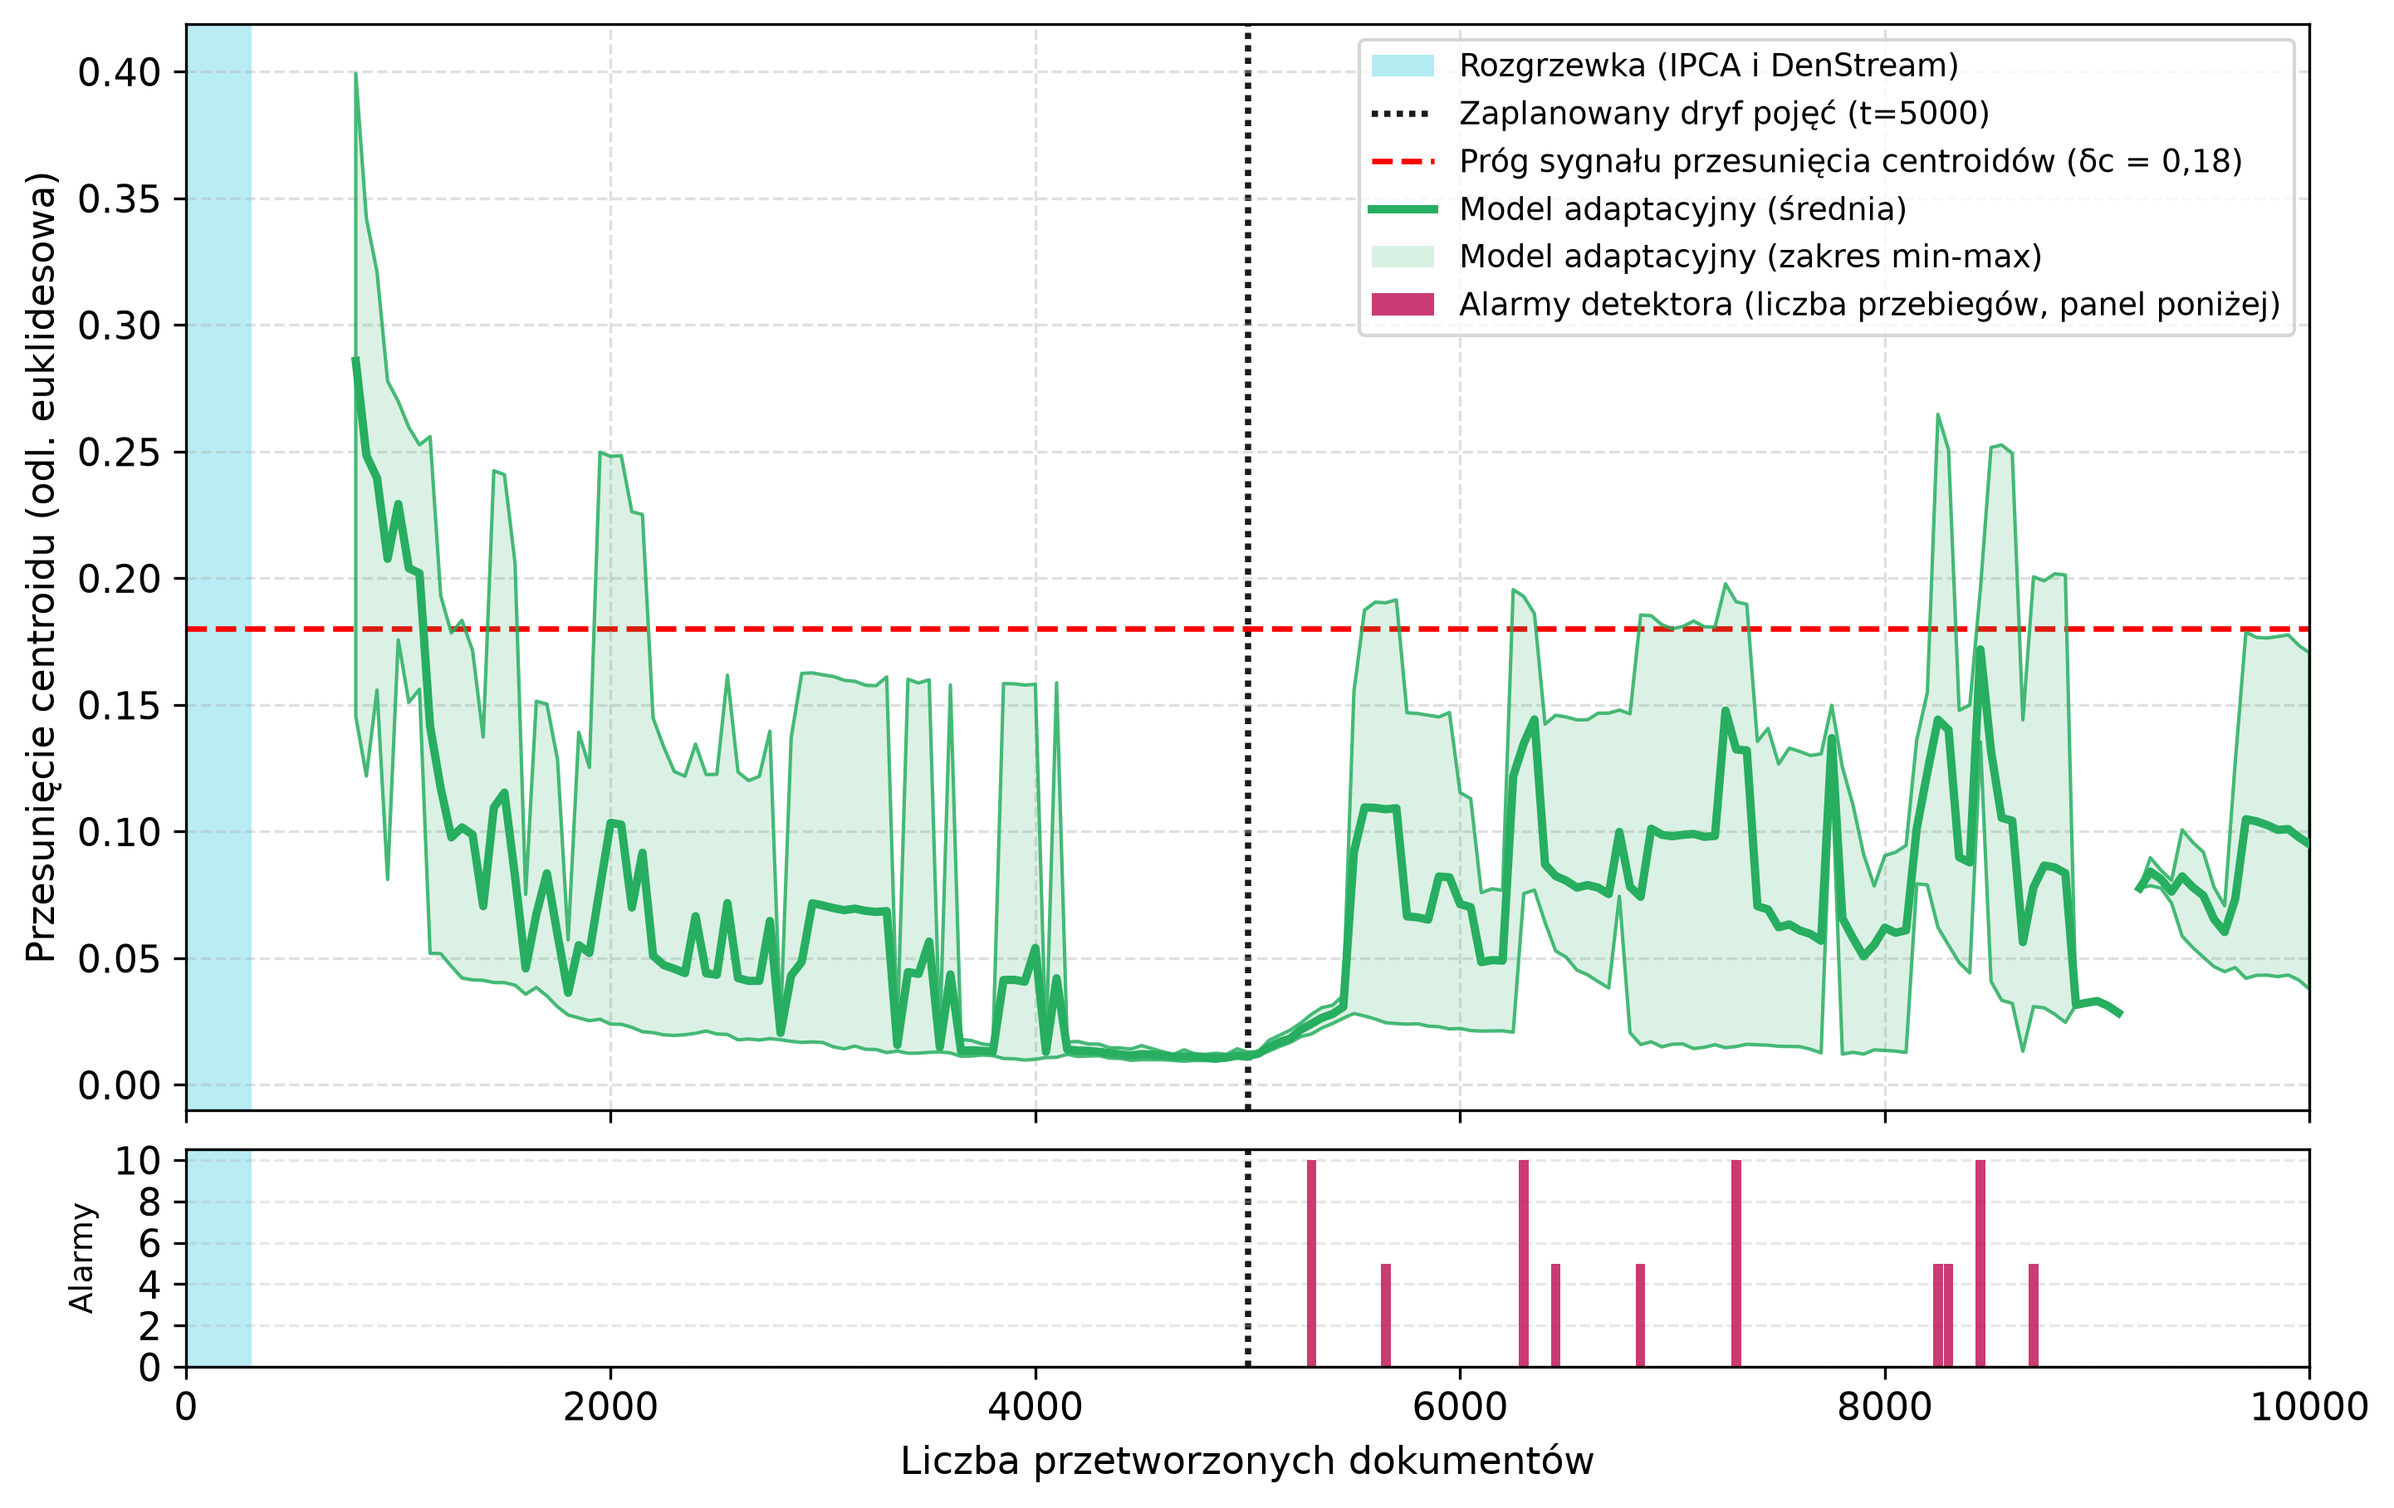
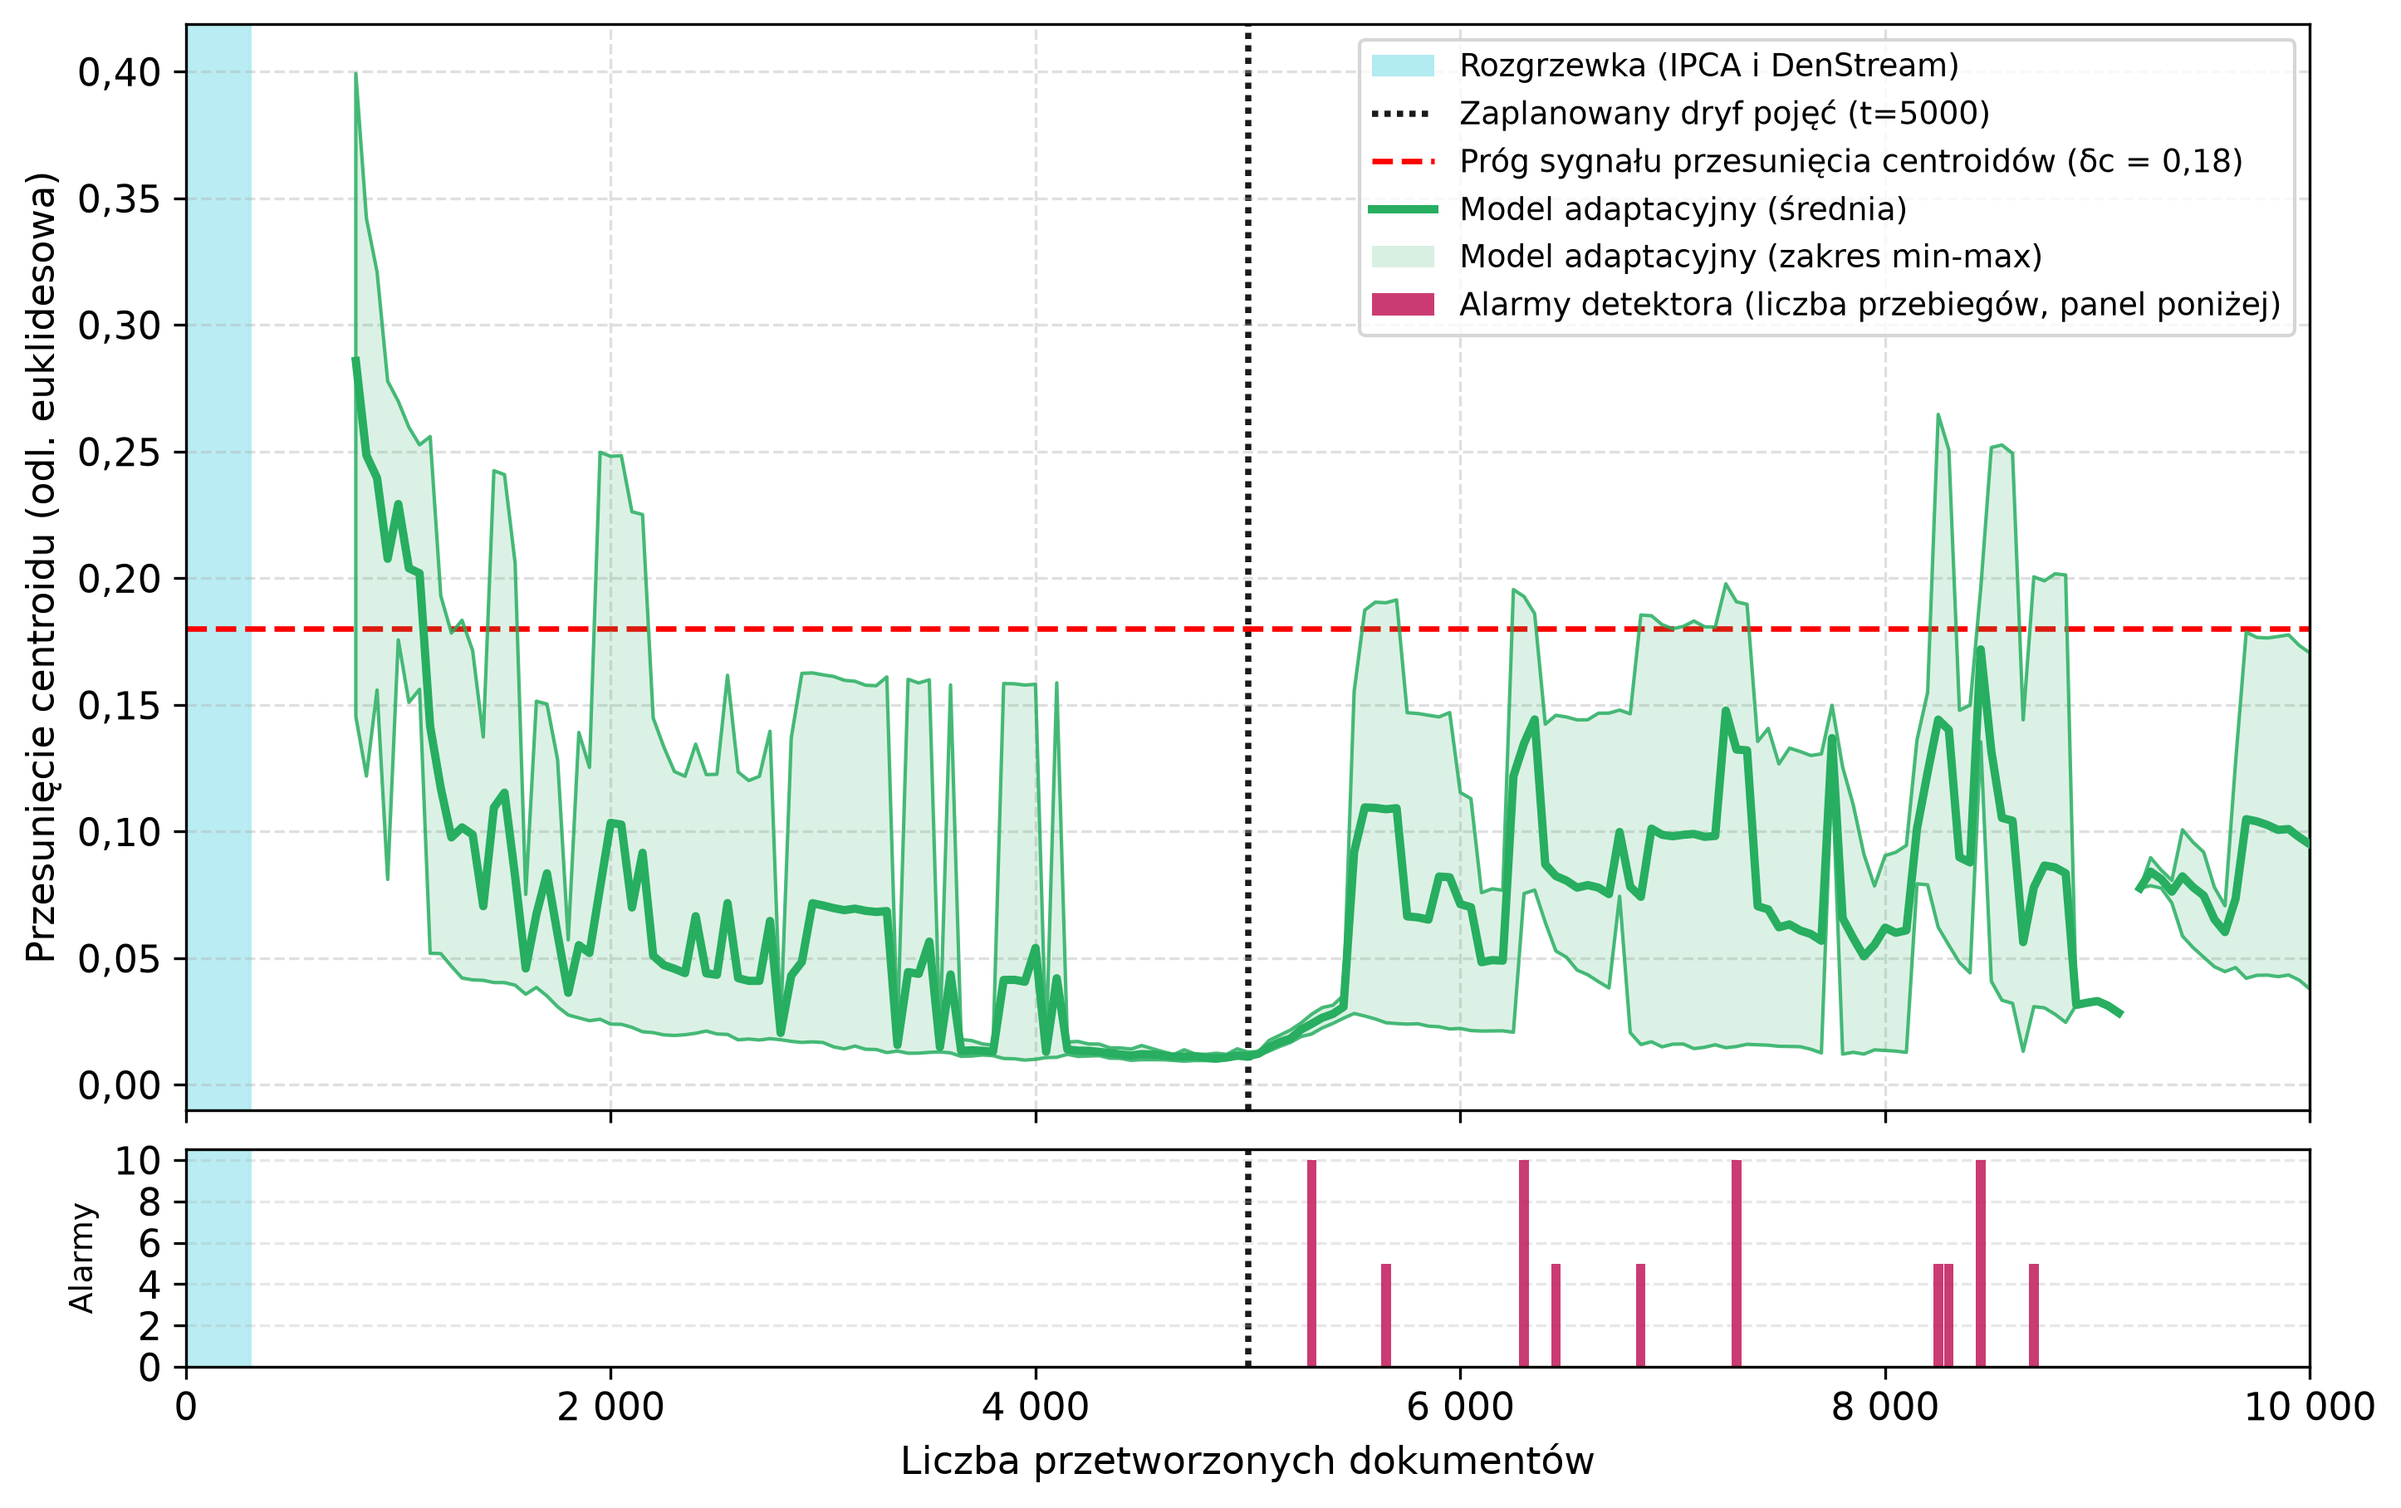
Use decimal commas and Polish thousands separators in all thesis figures

diff --git a/experiments/theses/thesis_2/plot_thesis_2_drift.py b/experiments/theses/thesis_2/plot_thesis_2_drift.py
@@ -19,6 +19,7 @@ import pandas as pd
 from matplotlib.colors import to_rgba
 from matplotlib.lines import Line2D
 
+from experiments.plot_style import decimal_comma, use_polish_number_format
 from experiments.theses.thesis_2.exp_thesis_2_drift import (
     BATCH_SIZE,
     DRIFT_POINT,
@@ -201,9 +202,9 @@ def plot_convergence_heatmaps(dfs: Dict[Tuple[float, float], pd.DataFrame], tail
     for ax, grid, subtitle, fmt in panels:
         im = ax.imshow(grid, cmap="viridis", aspect="auto")
         ax.set_xticks(range(len(DECAY_VALUES)))
-        ax.set_xticklabels([str(d) for d in DECAY_VALUES])
+        ax.set_xticklabels([decimal_comma(d) for d in DECAY_VALUES])
         ax.set_yticks(range(len(EPSILON_VALUES)))
-        ax.set_yticklabels([str(e) for e in EPSILON_VALUES])
+        ax.set_yticklabels([decimal_comma(e) for e in EPSILON_VALUES])
         ax.set_xlabel(r"Startowe $\lambda_0$")
         ax.set_ylabel(r"Startowe $\epsilon_0$")
         ax.set_title(subtitle, fontsize=11)
@@ -214,7 +215,7 @@ def plot_convergence_heatmaps(dfs: Dict[Tuple[float, float], pd.DataFrame], tail
                 val = grid[i, j]
                 if not np.isnan(val):
                     text_color = "white" if val > norm_mid else "black"
-                    ax.text(j, i, fmt.format(val), ha="center", va="center", color=text_color, fontsize=9)
+                    ax.text(j, i, decimal_comma(fmt.format(val)), ha="center", va="center", color=text_color, fontsize=9)
         fig.colorbar(im, ax=ax, fraction=0.046, pad=0.04)
 
     plt.tight_layout()
@@ -246,9 +247,9 @@ def plot_trajectory_example(dfs: Dict[Tuple[float, float], pd.DataFrame], combo:
 
     handles = _base_legend_handles() + [
         Line2D([0], [0], color="#2980b9", lw=2.2, label=r"Adaptacyjny $\epsilon(t)$"),
-        Line2D([0], [0], color="#2980b9", ls=":", lw=1.4, label=rf"Start $\epsilon_0={eps}$"),
+        Line2D([0], [0], color="#2980b9", ls=":", lw=1.4, label=rf"Start $\epsilon_0$ = {decimal_comma(eps)}"),
         Line2D([0], [0], color="#8e44ad", lw=2.2, label=r"Adaptacyjny $\lambda(t)$"),
-        Line2D([0], [0], color="#8e44ad", ls=":", lw=1.4, label=rf"Start $\lambda_0={decay}$"),
+        Line2D([0], [0], color="#8e44ad", ls=":", lw=1.4, label=rf"Start $\lambda_0$ = {decimal_comma(decay)}"),
     ]
     plt.tight_layout()
     fig.legend(handles=handles, loc="upper center", ncol=3, frameon=True, bbox_to_anchor=(0.5, 0.0))
@@ -292,6 +293,7 @@ def plot_summary_gain(dfs: Dict[Tuple[float, float], pd.DataFrame], tail_docs: i
 
 
 def main():
+    use_polish_number_format()
     dfs = load_all()
     n_expected = len(EPSILON_VALUES) * len(DECAY_VALUES)
     print(f"Loaded {len(dfs)}/{n_expected} combinations.")

diff --git a/experiments/theses/thesis_3/exp_thesis_3_pareto.py b/experiments/theses/thesis_3/exp_thesis_3_pareto.py
@@ -23,6 +23,7 @@ from sklearn.decomposition import IncrementalPCA
 from sklearn.metrics import normalized_mutual_info_score
 from sklearn.preprocessing import normalize
 
+from experiments.plot_style import use_polish_number_format
 from experiments.theses.thesis_1.exp_thesis_1_ipca import STREAM_SEEDS, shuffle_stream
 from experiments.theses.thesis_2.exp_thesis_2_drift import (
     HOTSWAP_BUFFER_SIZE,
@@ -153,6 +154,7 @@ def _dimension_axis(ax, ylabel: str):
 
 
 def plot_fronts(fronts: pd.DataFrame, out_path: str):
+    use_polish_number_format()
     phase, seed = EXAMPLE_RUN
     fig, ax = plt.subplots(figsize=(9, 6))
     for d in PCA_DIMS:
@@ -171,6 +173,7 @@ def plot_fronts(fronts: pd.DataFrame, out_path: str):
 
 
 def plot_compromise_quality(summary: pd.DataFrame, out_path: str):
+    use_polish_number_format()
     fig, ax = plt.subplots(figsize=(8, 5))
     for metric, label in [("purity", "Czystość"), ("nmi", "NMI")]:
         ax.errorbar(summary["pca_dim"], summary[f"{metric}_mean"], yerr=summary[f"{metric}_std"], marker="o", capsize=4, lw=2, label=label)
@@ -182,6 +185,7 @@ def plot_compromise_quality(summary: pd.DataFrame, out_path: str):
 
 
 def plot_compromise_structure(summary: pd.DataFrame, out_path: str):
+    use_polish_number_format()
     fig, ax = plt.subplots(figsize=(8, 5))
     ax.errorbar(summary["pca_dim"], summary["micro_macro_ratio_mean"], yerr=summary["micro_macro_ratio_std"], marker="o", capsize=4, lw=2)
     _dimension_axis(ax, "$N_{micro} / N_{macro}$")
@@ -190,6 +194,7 @@ def plot_compromise_structure(summary: pd.DataFrame, out_path: str):
 
 
 def plot_compromise_params(summary: pd.DataFrame, out_path: str):
+    use_polish_number_format()
     bounds = config.evolution.param_bounds
     fig, axes = plt.subplots(2, 1, figsize=(8, 7), sharex=True)
     for ax, param, label in [(axes[0], "epsilon", "$\\varepsilon^*$"), (axes[1], "decaying_factor", "$\\lambda^*$")]:

diff --git a/experiments/param_bounds/lambda/exp_lambda_bounds.py b/experiments/param_bounds/lambda/exp_lambda_bounds.py
@@ -26,6 +26,7 @@ from experiments.param_bounds.common.validation_stream import (
     VALIDATION_SAMPLES_PER_PHASE as SAMPLES_PER_PHASE,
     load_validation_stream,
 )
+from experiments.plot_style import use_polish_number_format
 from experiments.theses.thesis_1.exp_thesis_1_ipca import STREAM_SEEDS, shuffle_stream
 from experiments.theses.thesis_2.exp_thesis_2_drift import BATCH_SIZE, INITIAL_WARMUP_SIZE
 from src.core.config import config
@@ -112,6 +113,7 @@ def run_one(seed: int, decay: float) -> Tuple[dict, pd.DataFrame]:
 
 
 def plot_quality(summary: pd.DataFrame, out_path: str):
+    use_polish_number_format()
     plt.rcParams.update({"font.size": 11, "font.family": "serif"})
     fig, ax = plt.subplots(figsize=(8, 5))
     for col, label in [("purity_before_switch", "Czystość przed zmianą tematów"), ("purity_after_switch", "Czystość po zmianie tematów")]:
@@ -132,6 +134,7 @@ def plot_purity_over_time(timeseries: pd.DataFrame, out_path: str):
     lambda values (mean over stream orders): the drop at the topic switch
     and the lack of recovery, whatever the speed of forgetting. Warm-up and
     drift markers follow the thesis 2 figures."""
+    use_polish_number_format()
     plt.rcParams.update({"font.size": 11, "font.family": "serif"})
     fig, ax = plt.subplots(figsize=(8, 4.5))
     ax.axvspan(0, INITIAL_WARMUP_SIZE, color="#b2ebf2", alpha=0.9, zorder=0, label="Rozgrzewka (IPCA i DenStream)")

diff --git a/experiments/theses/thesis_1/exp_thesis_1_ipca.py b/experiments/theses/thesis_1/exp_thesis_1_ipca.py
@@ -14,11 +14,13 @@ import time
 from typing import List, Optional
 
 import matplotlib.pyplot as plt
+from matplotlib.ticker import MultipleLocator
 import numpy as np
 import pandas as pd
 from sklearn.decomposition import IncrementalPCA
 from sklearn.preprocessing import normalize
 
+from experiments.plot_style import use_polish_number_format
 from experiments.theses.thesis_2.exp_thesis_2_drift import (
     BATCH_SIZE,
     INITIAL_WARMUP_SIZE,
@@ -203,6 +205,7 @@ def plot_purity_band(timeseries: pd.DataFrame, summary: pd.DataFrame, out_path: 
     epsilon, the band the min-max range over the whole epsilon grid (each
     curve averaged over stream orders), so the figure also shows how
     sensitive every dimension is to epsilon and where the model collapses."""
+    use_polish_number_format()
     plt.rcParams.update({"font.size": 11, "font.family": "serif"})
     dims = sorted(timeseries["pca_dim"].unique(), reverse=True)
     fig, axes = plt.subplots(2, 3, figsize=(12, 6.5), sharex=True, sharey=True)
@@ -225,6 +228,7 @@ def plot_purity_band(timeseries: pd.DataFrame, summary: pd.DataFrame, out_path: 
         ax.set_title("d = 384 (bez IPCA)" if dim == 384 else f"d = {dim}", fontsize=11)
         ax.set_ylim(0.0, 1.0)
         ax.set_xlim(0, timeseries["samples_seen"].max())
+        ax.xaxis.set_major_locator(MultipleLocator(2000))
         ax.grid(True, linestyle="--", alpha=0.6)
 
     for ax in axes[1]:

diff --git a/experiments/denstream_offline_failure/denstream_offline_failure_proof.py b/experiments/denstream_offline_failure/denstream_offline_failure_proof.py
@@ -14,6 +14,7 @@ from scipy.spatial.distance import pdist
 from sklearn.decomposition import IncrementalPCA
 from sklearn.preprocessing import normalize
 
+from experiments.plot_style import use_polish_number_format
 from experiments.theses.thesis_1.exp_thesis_1_ipca import load_phase1_stream
 from experiments.theses.thesis_2.exp_thesis_2_drift import BATCH_SIZE, INITIAL_WARMUP_SIZE
 from src.core.config import config
@@ -73,6 +74,7 @@ def main():
 def generate_chart():
     """Distances between p-micro-cluster centres against the offline-phase
     merge threshold 2*epsilon (thesis section 2.3.2, Figure 3)."""
+    use_polish_number_format()
     df = pd.read_csv(f"{RESULTS_DIR}/denstream_failure_metrics.csv")
 
     plt.rcParams.update({"font.size": 11, "font.family": "serif"})

diff --git a/experiments/dimensionality/exp_dimensionality.py b/experiments/dimensionality/exp_dimensionality.py
@@ -16,6 +16,7 @@ from sklearn.decomposition import PCA
 from sklearn.neighbors import NearestNeighbors
 from sklearn.preprocessing import normalize
 
+from experiments.plot_style import use_polish_number_format
 from experiments.theses.thesis_1.exp_thesis_1_ipca import load_phase1_stream
 
 RESULTS_DIR = "experiments/dimensionality/results"
@@ -41,6 +42,7 @@ def distance_contrast_ratio(X: np.ndarray) -> float:
 
 
 def plot_curve(dims, values, ylabel, out_path):
+    use_polish_number_format()
     plt.rcParams.update({"font.size": 11, "font.family": "serif"})
     fig, ax = plt.subplots(figsize=(8, 5))
     ax.plot(dims, values, color="#2980b9", linewidth=2.5, marker="o")

diff --git a/experiments/plot_style.py b/experiments/plot_style.py
@@ -1,0 +1,15 @@
+import locale
+
+import matplotlib as mpl
+
+
+def use_polish_number_format() -> None:
+    """Axis tick labels with a decimal comma and a space as the thousands
+    separator (0,25; 10 000), as in the Polish thesis text."""
+    locale.setlocale(locale.LC_NUMERIC, "pl_PL.UTF-8")
+    mpl.rcParams["axes.formatter.use_locale"] = True
+
+
+def decimal_comma(value) -> str:
+    """A number written into a label by hand, with a decimal comma."""
+    return str(value).replace(".", ",")
